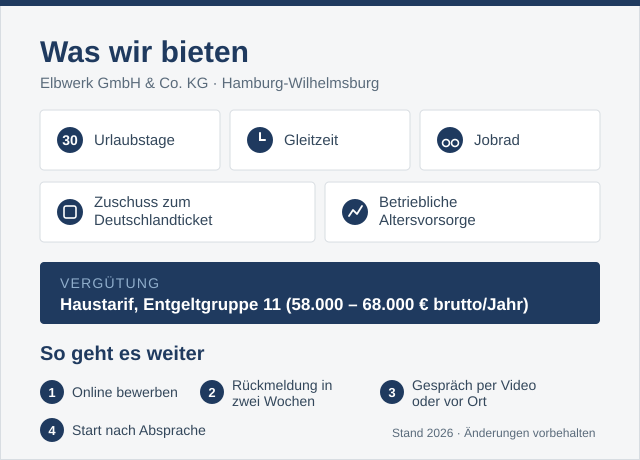
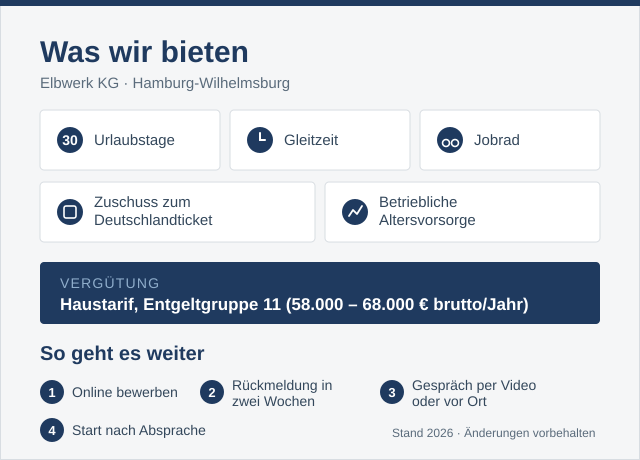
refactor(content): shorten the fictional company to Elbwerk KG
Third and final form. `GmbH & Co. KG` was accurate but long, and the string is
not decoration: it appears in the simulation region's accessible name, in the
bar's description and in the logo. At that length it draws attention to itself —
in an application whose central design problem is that the simulated company
must read as *unremarkable* (DESIGN.md §2), the legal form nobody notices is the
one doing its job.

A KG is still a partnership, so the Mittelstand characterisation that ruled out
an AG holds unchanged.

Drops the ampersand along with the long form, so templates and both SVGs go back
to plain text — no entity, no XML parsing hazard in the logo.

Reopens the register item rather than carrying its "closed" mark over: the check
that found an `Elbwerk GmbH` covered that name. `Elbwerk KG` is a third distinct
firm name and has not been through the trade register or DPMA. Recorded as open
in DESIGN.md §2.1, SPEC_v1.md §9 and UX-COPY.md §10, because the whole point of
that item is catching a collision before the slides are printed.

Changed region(s): [[0.1562, 0.1522, 0.5938, 0.213]]

diff --git a/src/app/frame/simulation-region/simulation-region.component.spec.ts b/src/app/frame/simulation-region/simulation-region.component.spec.ts
@@ -68,7 +68,7 @@ describe('SimulationRegionComponent (docs/SPEC_v1.md Slice 4)', () => {
       expect(element.getAttribute('role')).toBe('region');
 
       const heading = element.querySelector(`#${element.getAttribute('aria-labelledby')}`);
-      expect(heading!.textContent!.trim()).toBe('Simulation: Website der Elbwerk GmbH & Co. KG');
+      expect(heading!.textContent!.trim()).toBe('Simulation: Website der Elbwerk KG');
     });
 
     it('is described by the frame-owned sentence in the simulation bar, which sits outside it', () => {

diff --git a/e2e/simulation-boundary.spec.ts b/e2e/simulation-boundary.spec.ts
@@ -24,7 +24,7 @@ test.describe('The simulation region on the page', () => {
 
     const describedBy = await region.getAttribute('aria-describedby');
     const description = page.locator(`#${describedBy}`);
-    await expect(description).toHaveText(/Nachbau der Website der fiktiven Elbwerk GmbH & Co. KG/);
+    await expect(description).toHaveText(/Nachbau der Website der fiktiven Elbwerk KG/);
 
     // The description is frame-owned and static — it must not live inside the
     // region it describes (docs/ARCHITECTURE.md §5.1).

diff --git a/src/app/frame/simulation-region/simulation-region.component.html b/src/app/frame/simulation-region/simulation-region.component.html
@@ -23,7 +23,7 @@
        realism the whole design rests on (docs/DESIGN.md §2). The heading
        still carries the outline (h1 → h2 → h3) and the region's accessible
        name. -->
-  <h2 appVisuallyHidden [id]="headingId">Simulation: Website der Elbwerk GmbH &amp; Co. KG</h2>
+  <h2 appVisuallyHidden [id]="headingId">Simulation: Website der Elbwerk KG</h2>
 
   <!-- First focusable element in the region, in every barrier state
        (docs/TESTING.md §7). Written out in full: "Verlassen" alone does not

diff --git a/src/app/scenarios/application-process/job-posting-step/job-posting-step.component.spec.ts b/src/app/scenarios/application-process/job-posting-step/job-posting-step.component.spec.ts
@@ -120,7 +120,7 @@ describe('JobPostingStepComponent (docs/SPEC_v1.md Slice 7)', () => {
     // would be a twelfth that nothing in the panel explains.
     it('gives the company logo a text alternative (docs/UX-COPY.md §8.1)', () => {
       const logo: HTMLImageElement = element(setup()).querySelector('.logo')!;
-      expect(logo.getAttribute('alt')).toBe('Elbwerk GmbH & Co. KG');
+      expect(logo.getAttribute('alt')).toBe('Elbwerk KG');
     });
   });
 

diff --git a/src/app/frame/simulation-region/simulation-bar/simulation-bar.component.html b/src/app/frame/simulation-region/simulation-bar/simulation-bar.component.html
@@ -10,8 +10,8 @@
   <p class="counter">{{ counterLabel() }}</p>
 
   <p class="description" [id]="descriptionId">
-    Nachbau der Website der fiktiven Elbwerk GmbH &amp; Co. KG. Kein echtes Unternehmen, keine echte
-    Bewerbung, keine Datenübertragung.
+    Nachbau der Website der fiktiven Elbwerk KG. Kein echtes Unternehmen, keine echte Bewerbung,
+    keine Datenübertragung.
   </p>
 
   @if (suppressionNotes().length > 0) {

diff --git a/src/app/frame/simulation-region/simulation-bar/simulation-bar.component.spec.ts b/src/app/frame/simulation-region/simulation-bar/simulation-bar.component.spec.ts
@@ -119,7 +119,7 @@ describe('SimulationBarComponent (docs/SPEC_v1.md Slice 4)', () => {
         ).textContent!.replace(/\s+/g, ' ');
 
       expect(read('')).toBe(read('alle'));
-      expect(read('')).toContain('Nachbau der Website der fiktiven Elbwerk GmbH & Co. KG.');
+      expect(read('')).toContain('Nachbau der Website der fiktiven Elbwerk KG.');
     });
   });
 

diff --git a/src/app/scenarios/application-process/elbwerk-page/elbwerk-page.component.ts b/src/app/scenarios/application-process/elbwerk-page/elbwerk-page.component.ts
@@ -37,5 +37,5 @@ export class ElbwerkPageComponent {
   protected readonly logoSrc = 'simulation/elbwerk-logo.svg';
 
   /** docs/UX-COPY.md §8.1 `elbwerk.logo.alt`. */
-  protected readonly logoAlt = 'Elbwerk GmbH & Co. KG';
+  protected readonly logoAlt = 'Elbwerk KG';
 }

diff --git a/docs/UX-COPY.md b/docs/UX-COPY.md
@@ -198,7 +198,7 @@ sichtbaren Schrittindikator gar nicht, weil die `h1` unmittelbar darüber ihn sc
 | `simBar.counter.some` | {active} von {total} Barrieren aktiv |
 | `simBar.counter.none` | Keine Barriere aktiv |
 | `simBar.counter.all` | Alle {total} Barrieren aktiv |
-| `simBar.description` | Nachbau der Website der fiktiven Elbwerk GmbH & Co. KG. Kein echtes Unternehmen, keine echte Bewerbung, keine Datenübertragung. |
+| `simBar.description` | Nachbau der Website der fiktiven Elbwerk KG. Kein echtes Unternehmen, keine echte Bewerbung, keine Datenübertragung. |
 
 `simBar.description` ist der Text, auf den `aria-describedby` des Simulationsbereichs
 zeigt (`ARCHITECTURE.md` §5.1). Er ist Teil des Rahmens, nicht der Simulation.
@@ -213,7 +213,7 @@ akustisch richtig.
 
 | Schlüssel | Text |
 | --- | --- |
-| `simRegion.label` | Simulation: Website der Elbwerk GmbH & Co. KG |
+| `simRegion.label` | Simulation: Website der Elbwerk KG |
 | `simRegion.exitLink` | Simulation verlassen — zurück zum Barriere-Panel |
 | `simRegion.endAnchor` | Ende des Simulationsbereichs |
 
@@ -528,9 +528,9 @@ nicht besonders — gewöhnlich. Das ist die Vorgabe.
 
 | Schlüssel | Text |
 | --- | --- |
-| `elbwerk.nav.brand` | Elbwerk GmbH & Co. KG |
+| `elbwerk.nav.brand` | Elbwerk KG |
 | `elbwerk.nav.items` | Unternehmen · Leistungen · Karriere · Kontakt |
-| `elbwerk.logo.alt` | Elbwerk GmbH & Co. KG |
+| `elbwerk.logo.alt` | Elbwerk KG |
 | `elbwerk.jobs.h2` | Offene Stellen |
 | `elbwerk.job.title` | IT-Projektmanager (m/w/d) |
 | `elbwerk.job.meta` | Vollzeit · Hamburg-Wilhelmsburg · ab sofort |
@@ -558,7 +558,7 @@ den die Leiste hinter `elbwerk.de` anzeigt.
 Die Pfade der Schritte 2 bis 4 kommen mit ihren Slices hinzu.
 
 **Das Elbwerk-Logo.** Eine Wort-Bild-Marke (Wortmarke „ELBWERK", darunter
-„GMBH & CO. KG · HAMBURG", davor ein Signet) als SVG, selbst gehostet wie alle Assets
+„KG · HAMBURG", davor ein Signet) als SVG, selbst gehostet wie alle Assets
 (`ARCHITECTURE.md` §16). Es trägt `elbwerk.logo.alt` als Alternativtext — Logotypen sind
 von WCAG 1.4.5 ausdrücklich ausgenommen, und ein Firmenlogo mit korrektem Alternativtext
 ist genau das, was eine gewöhnliche Unternehmensseite richtig macht. Das Logo ist **keine**
@@ -954,7 +954,7 @@ als zusätzliche Option und ist tastaturbedienbar.
 | `csr.carousel.position` | Beitrag {current} von {total} |
 | `csr.carousel.quote1` | „Ohne die Unterstützung hätten wir den Treff im Winter schließen müssen." — Regina Ohlsen, Leiterin des Nachbarschaftstreffs |
 | `csr.carousel.quote2` | „Meine Kinder gehen zweimal die Woche zur Hausaufgabenhilfe. Das ist Gold wert." — Aylin Demir, Anwohnerin |
-| `csr.carousel.quote3` | „Wir kommen aus dem Stadtteil. Da hilft man sich." — Torben Kruse, Elbwerk GmbH & Co. KG |
+| `csr.carousel.quote3` | „Wir kommen aus dem Stadtteil. Da hilft man sich." — Torben Kruse, Elbwerk KG |
 
 **Aktiv:** Wechsel alle vier Sekunden, keine Pause-Schaltfläche.
 **Behoben:** Pause-Schaltfläche als erstes Element der Gruppe, Positionsanzeige, Wechsel
@@ -1045,7 +1045,7 @@ ohne die eine gehörlose Person nicht weiß, ob sie hingehen kann.
 | --- | --- |
 | Fachliche Freigabe aller Elbwerk-Texte | WERTE.IT-Team |
 | Erklärtexte je Barriere (Abschnitt 5.8 liefert nur die Rubriken) | WERTE.IT-Team |
-| ~~Prüfung „Elbwerk" gegen Handelsregister und DPMA~~ — erledigt: Eine `Elbwerk GmbH` existiert. Die Firma heißt jetzt `Elbwerk GmbH & Co. KG`, und die gibt es nicht (`DESIGN.md` §2.1) | Philipp — geschlossen |
+| Prüfung „Elbwerk KG" gegen Handelsregister und DPMA. Die erste Prüfung fand eine `Elbwerk GmbH` — daher die geänderte Rechtsform —, aber `Elbwerk KG` ist ein dritter, eigener Firmenname und wurde noch nicht geprüft (`DESIGN.md` §2.1) | Philipp |
 | Sind die Personennamen in den Testimonials unbedenklich, oder sollen sie neutraler werden? | WERTE.IT-Team |
 | Transkripttext des Kampagnenvideos — hängt am Videomaterial (`PRD.md` §10) | WERTE.IT-Team |
 | **Prüfung der Fassung in Leichter Sprache (Abschnitt 9.8) durch eine Fachstelle.** Der Entwurf folgt den Regeln nur annähernd. Eine schlecht gemachte Fassung ist in einem Modul über Barrierefreiheit schlimmer als keine. | WERTE.IT-Team / Fachstelle |

diff --git a/docs/DESIGN.md b/docs/DESIGN.md
@@ -62,27 +62,31 @@ Elbwerk is a mid-sized Hamburg engineering and services firm. The name carries a
 connection to the BSVH without being a real company. Fictional domain: `elbwerk.de`, used
 in the simulation bar only — never as a live link.
 
-The legal form is **GmbH & Co. KG**, and it is the one part of the name that was not a free
-choice: an `Elbwerk GmbH` turned out to exist. The name itself carries the local connection
-and is relied on by the module deck and by `elbwerk.de`, so the company keeps it and changes
-only its form.
+The legal form is **KG**, and it is the one part of the name that was not a free choice: an
+`Elbwerk GmbH` turned out to exist. The name itself carries the local connection and is
+relied on by the module deck and by `elbwerk.de`, so the company keeps it and changes only
+its form.
 
-`GmbH & Co. KG` rather than `AG`, and the reason is characterisation rather than law. An
-Aktiengesellschaft in Wilhelmsburg would quietly contradict the premise: chapter 3 is about
-the *Mittelstand*, and an AG reads as a listed corporation with a legal department that
-somebody would have asked. `GmbH & Co. KG` is the commonest form for a firm of this size in
-Germany, which keeps Elbwerk in the category the module is actually talking about — and
-keeps the barriers reading as ordinary neglect rather than as corporate malice.
+Two criteria decided which form, and they point the same way. **Characterisation:** chapter
+3 is about the *Mittelstand*, so an `AG` is wrong — it reads as a listed corporation with a
+legal department somebody would have asked, and the barriers would read as corporate malice
+rather than as ordinary neglect. A `KG` is a partnership, which is what a firm of this size
+in Hamburg usually is. **Brevity:** `GmbH & Co. KG` is equally accurate and was the first
+choice, but the string appears in the region's accessible name, in the simulation bar's
+description and in the logo, and at that length it draws attention to itself. In a tool
+whose whole design problem is that the simulated company must be *unremarkable*, a legal
+form nobody notices is the one doing its job.
 
 Two consequences worth stating, because both are easy to undo by accident. The legal form
-appears in the logo wordmark, so the logo carries `GMBH & CO. KG · HAMBURG`; and it appears
-inside the generated benefits graphic, where it is pixels and has to be re-rendered rather
-than edited (`CLAUDE.md`, "Stack and conventions"). A rename that misses either leaves the
-real company's name visible in a picture, where no search finds it — which is exactly how
-this one survived the first pass.
+appears in the logo wordmark, so the logo carries `KG · HAMBURG`; and it appears inside the
+generated benefits graphic, where it is pixels and has to be re-rendered rather than edited
+(`CLAUDE.md`, "Stack and conventions"). A rename that misses either leaves the old name
+visible in a picture, where no search finds it — which is exactly how the first rename
+nearly shipped.
 
-The check that produced all of this — trade register and DPMA — was the open item here and
-is now closed.
+**Still to check:** the register and DPMA search that started this covered `Elbwerk GmbH`.
+`Elbwerk KG` is a third distinct firm name and has not been through it. The check is cheap;
+running it before the slides are printed is the point of this whole item.
 
 ---
 

diff --git a/docs/SPEC_v1.md b/docs/SPEC_v1.md
@@ -602,7 +602,7 @@ require replacing a barrier the PRD names explicitly.
 | Question | Owner |
 | --- | --- |
 | Imprint, privacy policy, and a BITV 2.0 accessibility statement — for a tool on this subject, their absence needs explaining | Philipp / BSVH |
-| ~~`Elbwerk` checked against the trade register and DPMA~~ — done: an `Elbwerk GmbH` exists. The company is now `Elbwerk GmbH & Co. KG`, which does not (`DESIGN.md` §2.1) | Philipp — closed |
+| `Elbwerk KG` checked against the trade register and DPMA. The earlier check found an `Elbwerk GmbH` — that is why the legal form changed — but `Elbwerk KG` is a third distinct name and has not been through it (`DESIGN.md` §2.1) | Philipp |
 | Whether the job posting should mirror a real BSVH-adjacent role or stay neutral | WERTE.IT |
 | Hosting and `base href` value | Philipp, phase 4 |
 

diff --git a/docs/PRD.md b/docs/PRD.md
@@ -71,7 +71,7 @@ Ein Tool über digitale Teilhabe, das Teilhabe verweigert, wäre inhaltlich nich
 ## 6. Szenarien
 
 Die drei Szenarien folgen der Reihenfolge des Moduls (Folien 16–32) und spielen alle in
-**derselben Organisation** — der fiktiven Elbwerk GmbH & Co. KG. Das ist keine Kulisse, sondern die
+**derselben Organisation** — der fiktiven Elbwerk KG. Das ist keine Kulisse, sondern die
 Kernaussage von Kapitel 3: Barrierefreiheit ist keine Aufgabe eines Fachbereichs.
 
 ### 6.0 Verantwortungsbereiche
